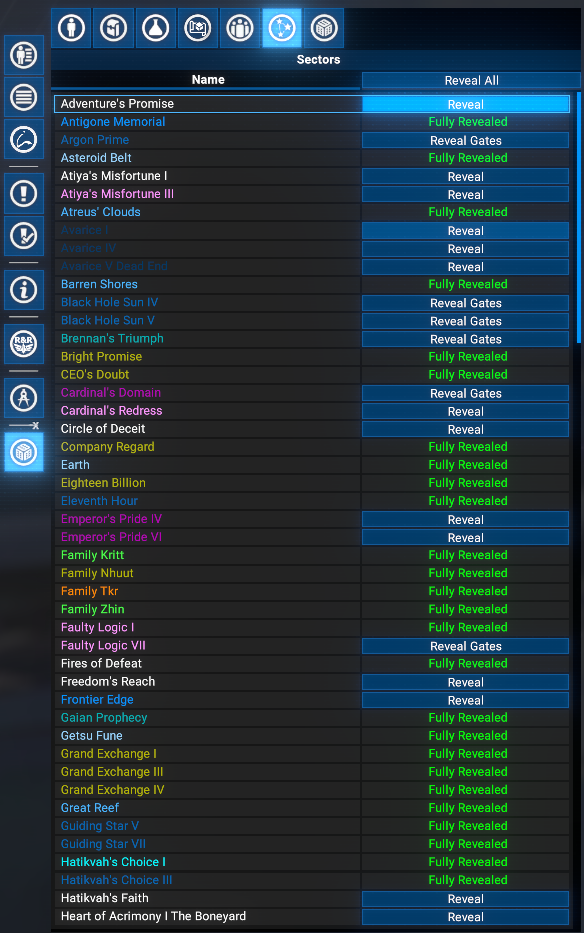
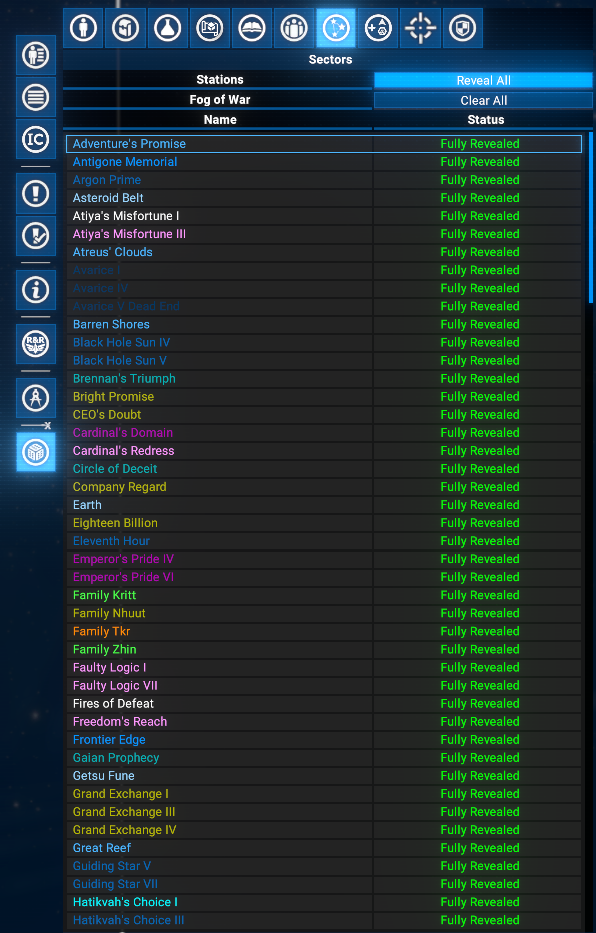
feat: version 8.00.47
- Galaxy/Sectors tab: Stations - Reveal All and Fog of War - Clear All
  rows above the sector list, acting on every known sector.
- Restock and Fill Storage count universal storage modules added by
  other mods, so stations that have only universal storage are offered
  both actions and filled to capacity.
- Ships spawned for other factions carry the vanilla loot lists and
  drop loot when destroyed.
- Log messages go through the Lua Log API, now a required dependency.
- The ship spawn, sector reveal and fog cues have new versions, so
  running saves pick up the changes.
- New text in all supported languages; Sectors screenshot updated.

diff --git a/README.md b/README.md
@@ -20,7 +20,7 @@ Take in account: id of the mod and folder is changed to `safe_cheat_panel`.
 - **Blueprints Tab**: Unlock blueprints individually, by subcategory, or all at once.
 - **Encyclopedia Tab**: Reveal encyclopedia entries for races, factions and their licences, ships, station modules, weapons, equipment and wares - individually, by subcategory, or all at once.
 - **Factions Tab**: Edit faction relations with the player and between non-player factions.
-- **Galaxy/Sectors Tab**: Reveal sectors on the map at three levels of detail, or reveal all at once.
+- **Galaxy/Sectors Tab**: Reveal sectors on the map at three levels of detail, or reveal all at once. Reveal every station, or clear the fog of war, in all known sectors.
 - **Spawner Tab**: Spawn stations - from a construction plan, armed at a loadout preset, or as a pre-built installation - plus ships (loadout, crew skills, job assignment, cargo) and deployable objects. Player stations can be given a manager, a ship trader and a starting workforce - none of which the game assigns itself.
 - **Editor**: The same tab edits existing objects. Right-click a player-owned ship or station to load it in, then set crew skills, re-equip it, change a ship's cargo, fill empty control posts or set its workforce. In extended mode any ship's cargo can be changed.
 - **Destroy Object Tab**: Destroy any destructible map object, selected via the right-click context menu, with a confirmation checkbox before the button arms.
@@ -41,6 +41,8 @@ Take in account: id of the mod and folder is changed to `safe_cheat_panel`.
   - Available on Nexus Mods: [Options Helper](https://www.nexusmods.com/x4foundations/mods/2089)
 - **Print Extension List** by [Chem O`Dun](https://next.nexusmods.com/profile/ChemODun/mods?gameId=2659), version **1.01** or higher. Writes the game version and enabled extensions to the debug log at startup, so any log sent with a bug report identifies the setup:
   - Available on Nexus Mods: [Print Extension List](https://www.nexusmods.com/x4foundations/mods/2191)
+- **Lua Log API** by [Chem O`Dun](https://next.nexusmods.com/profile/ChemODun/mods?gameId=2659), version **1.01** or higher. Writes the panel's log messages:
+  - Available on Nexus Mods: [Lua Log API](https://www.nexusmods.com/x4foundations/mods/2473)
 - **Extra UI API** (optional) by [Chem O`Dun](https://next.nexusmods.com/profile/ChemODun/mods?gameId=2659), version **1.01** or higher. Needed only for the right-click **Teleport to Pilot Seat**:
   - Available on Nexus Mods: [Extra UI API](https://www.nexusmods.com/x4foundations/mods/2602)
 
@@ -134,6 +136,13 @@ Reveal sectors on the map at three levels of detail:
 
 A **Reveal All** button reveals every sector at all levels at once.
 
+Two more buttons work on every known sector - reveal the sectors first to include the others:
+
+- **Stations - Reveal All**: reveals all stations, with their names and positions.
+- **Fog of War - Clear All**: clears the map's fog of war. Reveals the space only, not the objects in it.
+
+The right-click menu on the map does the same for a single sector (**Reveal Stations in Sector**, **Clear Fog of War in Sector**).
+
 ![Sectors](docs/images/sectors.png)
 
 ### Spawner Tab
@@ -161,6 +170,8 @@ A **Reveal All** button reveals every sector at all levels at once.
   - ![Ship Cargo](docs/images/ship_cargo.png)
 
 - Set the number of ships per row (up to 10) and the number of rows (up to 10).
+
+Ships spawned for any faction other than the player carry the game's own loot for their faction, size and role, so destroying them drops wares, mod parts and ammo as the game's own ships do.
 
 #### Station Spawner
 
@@ -248,9 +259,9 @@ Right-clicking on the map gives access to the following actions, depending on th
 - **Spawn Objects**: Spawns deployable objects at the clicked position using the current Spawner tab settings.
 - **Force Build Completion: Current Station**: Instantly completes the construction of a station that is currently building, by finishing all build tasks and spawning all missing modules and sub-entities. Appears only on stations that are currently under construction. *In* **extended** *mode available for non-player faction stations*.
 - **Force Build Completion: All Faction Stations**: Instantly completes the construction of all stations belonging to the same faction, by finishing all build tasks and spawning all missing modules and sub-entities. Appears only on stations that are currently under construction. *Only available in* **extended** *mode, as for player as for non-player faction stations*.
-- **Restock: Current Station**: Instantly restocks the current station's resources and buyable trade wares up to their buy limits, the amount the station would buy itself, plus the wares it still needs to build its drones and at least what queued ship builds at a wharf or shipyard still miss. Works from the station's own storage numbers, so it also works when the station posts no buy offers. Takes into account incoming ware reservations and the free storage space. *In* **extended** *mode available for non-player faction stations*.
+- **Restock: Current Station**: Instantly restocks the current station's resources and buyable trade wares up to their buy limits, the amount the station would buy itself, plus the wares it still needs to build its drones and at least what queued ship builds at a wharf or shipyard still miss. Works from the station's own storage numbers, so it also works when the station posts no buy offers. Takes into account incoming ware reservations and the free storage space, universal storage modules (added by some mods) included. *In* **extended** *mode available for non-player faction stations*.
 - **Restock: All Faction Stations**: The same restock for all stations belonging to the same faction. *Only available in* **extended** *mode, as for player as for non-player faction stations*.
-- **Fill Storage: Current Station**: Instantly fills the current station's resources, intermediate wares and buyable trade wares up to their storage targets (the full bars in the Logical Station Overview), ignoring buy limits, plus the same drone and ship-build wares as **Restock**. Takes into account incoming ware reservations and the free storage space. *In* **extended** *mode available for non-player faction stations*.
+- **Fill Storage: Current Station**: Instantly fills the current station's resources, intermediate wares and buyable trade wares up to their storage targets (the full bars in the Logical Station Overview), ignoring buy limits, plus the same drone and ship-build wares as **Restock**. Takes into account incoming ware reservations and the free storage space, universal storage modules (added by some mods) included. *In* **extended** *mode available for non-player faction stations*.
 - **Fill Storage: All Faction Stations**: The same fill for all stations belonging to the same faction. *Only available in* **extended** *mode, as for player as for non-player faction stations*.
 - **Restock: Current Build Storage**: Instantly restocks the current station's build storage with all required resources. Appears only on stations that are currently under construction. Takes into account the trade offers and ware reservation. *In* **extended** *mode available for non-player faction stations*.
 - **Restock: All Faction Build Storages**: Instantly restocks all stations belonging to the same faction with all required resources in their build storages. Appears only on stations that are currently under construction. Takes into account the trade offers and ware reservation. *Only available in* **extended** *mode, as for player as for non-player faction stations*.
@@ -289,6 +300,16 @@ Debug logging can be enabled to write detailed information about the mod's opera
 - [SirNukes](https://next.nexusmods.com/profile/sirnukes?gameId=2659) - for the `Mod Support APIs` that power the UI hooks and options menu.
 
 ## Changelog
+
+### [8.00.47] - 2026-11-25
+
+- **Added**
+  - Galaxy/Sectors tab: **Stations - Reveal All** and **Fog of War - Clear All**, for every known sector.
+- **Changed**
+  - Log messages go through the **Lua Log API**, now a required mod.
+- **Fixed**
+  - Right-click **Restock** and **Fill Storage** ignored universal storage modules (added by some mods).
+  - Ships spawned for other factions dropped no loot when destroyed.
 
 ### [8.00.46] - 2026-11-15
 
